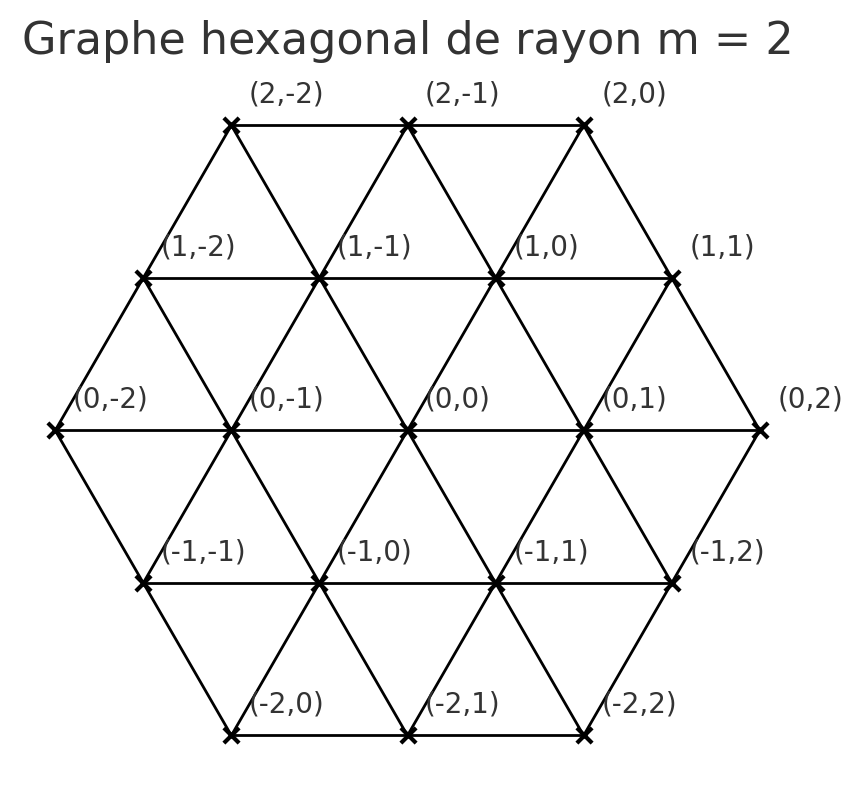
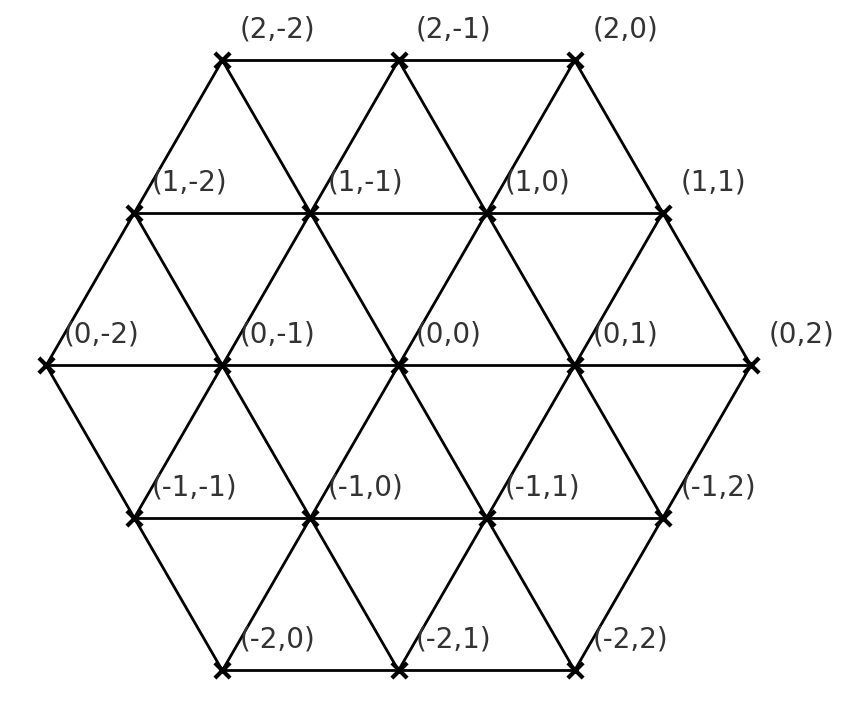
modifs_rapport

diff --git a/rapport/chapters/part-salah.tex b/rapport/chapters/part-salah.tex
@@ -86,9 +86,9 @@ Le type de données \texttt{axial\_t} est une simple structure contenant deux en
     
 Ce type est utilisé dans la majorité des fonctions de construction du graphe pour :
 \begin{itemize}
-    \item convertir les coordonnées en index de matrice d’adjacence ;
-    \item vérifier l’appartenance à certaines régions du plateau (trou, cyclique, etc.) ;
-    \item déterminer les voisins d’un sommet selon les 6 directions possibles.
+    \item vérifier simplement l’appartenance d’un sommet au graphe à partir de ses coordonnées axiales.
+    \item déterminer et parcourir les voisins d’un sommet selon les 6 directions définies, en appliquant des décalages sur \((l,c)\).
+    \item convertir un couple de coordonnées axiales en un indice unique dans la matrice d’adjacence grâce à une fonction \texttt{\texttt{int} axial\_to\_index(\texttt{int} l, \texttt{int} c, \texttt{int} m)}.
 \end{itemize}
 
 \subsubsection{Implémentation du graphe}